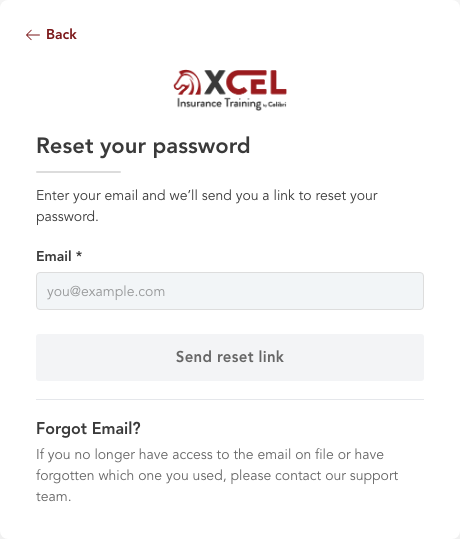
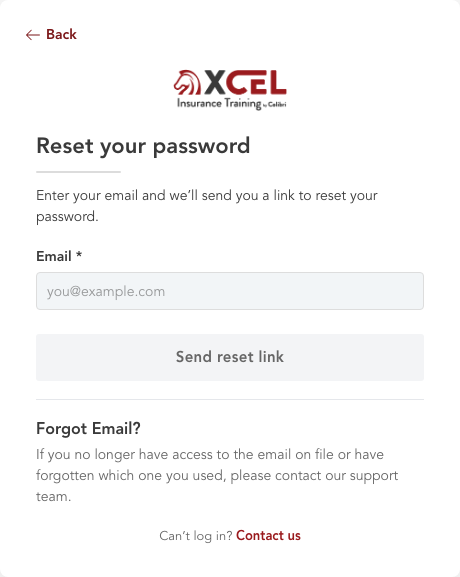
feat(invite-v3): Log In's Atlas cards — welcome line, locked email, Contact us
- Keycloak's Log in on the Log In flow matches the checkout's Log in to
  continue: "Welcome back, Jordan! Enter your password." under the title,
  and the address locked in its field. ← Back stays.
- "Can't log in?" leaves Log in for the foot of Reset your password, as
  "Contact us" — xcelsolutions.com/contact-us, in a new tab. The checkout's
  modal keeps "Visit our help center".
- Reset your password — Log In recaptured.

diff --git a/src/components/e2e/VerifyEmailModalV3.tsx b/src/components/e2e/VerifyEmailModalV3.tsx
@@ -700,6 +700,24 @@ function LoginStep({
             </button>
           )}
         </div>
+        {/* The Log In flow's way out, at the foot of Reset your password —
+            moved from its Log in and renamed (2026-11-23, Afsana: "Can't log
+            in? Contact us", to XCEL's contact page in a new tab). */}
+        {onBack ? (
+          <p style={{ ...NOTE, textAlign: 'center' }}>
+            Can’t log in?{' '}
+            <a
+              href={XCEL_CONTACT_US}
+              target="_blank"
+              rel="noopener noreferrer"
+              className="cre-e2e-textlink"
+              style={{ ...TEXT_LINK, color: 'var(--color-xcel-brick)', textDecoration: 'none' }}
+            >
+              Contact us
+              <span style={VISUALLY_HIDDEN}> (opens in a new tab)</span>
+            </a>
+          </p>
+        ) : null}
         {/* The demo fill — the same invisible, labelled corner as the email
             step's. */}
         <button
@@ -888,13 +906,17 @@ function LoginStep({
         </button>
       </div>
       {/* The way out for a learner who cannot get in at all (2026-11-13,
-          Afsana). Drawn only — the help center's address is not settled. */}
-      <p style={{ ...NOTE, textAlign: 'center' }}>
-        Can’t log in?{' '}
-        <button type="button" className="cre-e2e-textlink" style={{ ...TEXT_LINK, color: 'var(--color-xcel-brick)' }}>
-          Visit our help center
-        </button>
-      </p>
+          Afsana). Drawn only — the help center's address is not settled. On
+          the Log In flow it moved to Reset your password as Contact us
+          (2026-11-23, Afsana). */}
+      {onBack ? null : (
+        <p style={{ ...NOTE, textAlign: 'center' }}>
+          Can’t log in?{' '}
+          <button type="button" className="cre-e2e-textlink" style={{ ...TEXT_LINK, color: 'var(--color-xcel-brick)' }}>
+            Visit our help center
+          </button>
+        </p>
+      )}
     </form>
   )
 }
@@ -903,8 +925,9 @@ function LoginStep({
  *  flow's Atlas arm. Swati (2026-11-18): it "needs to match the keycloak
  *  widget", so it IS the checkout modal's Log in step — the same form, eye,
  *  wrong password and Forgot password? — on a card of its own, then the
- *  modal's "Signing you in". The address is the one given on OCD's page,
- *  locked. No name in the lead: nobody has signed in yet to be greeted. */
+ *  modal's "Signing you in". Like the checkout's, it greets the learner by
+ *  name and shows the address given on OCD's page, locked; unlike it, ← Back
+ *  in the corner (2026-11-23, Afsana). */
 export function KeycloakLogInCardV3({
   email,
   onSignedIn,
@@ -929,14 +952,14 @@ export function KeycloakLogInCardV3({
       {signingIn ? (
         <V3CardSigningIn />
       ) : (
-        /* No lead and no email field — the email step is the page before,
-           and ← Back returns to it to change the address (2026-11-20,
-           Afsana). */
+        /* The checkout's Log in to continue, as Afsana asked on 2026-11-23: a
+           welcome line and the address locked in its field — with ← Back
+           kept, to change it on the email step. (2026-11-20 to 11-23 it had
+           neither.) */
         <LoginStep
           email={email}
           title="Log in"
-          lead={null}
-          showEmail={false}
+          lead={`Welcome back, ${E2E_LEARNER_FIRST}! Enter your password.`}
           onBack={onBack}
           onLoggedIn={() => setSigningIn(true)}
         />
@@ -1101,6 +1124,18 @@ function ResetPasswordStep({ email, onReset }: { email: string; onReset: () => v
 
 /* A valid new password for the demo fill — every rule met. */
 const RESET_DEMO_PASSWORD = 'Navarro#2027'
+
+/** XCEL's contact page — the Log In flow's "Can't log in? Contact us". */
+const XCEL_CONTACT_US = 'https://www.xcelsolutions.com/contact-us'
+
+const VISUALLY_HIDDEN: CSSProperties = {
+  position: 'absolute',
+  width: 1,
+  height: 1,
+  overflow: 'hidden',
+  clip: 'rect(0 0 0 0)',
+  whiteSpace: 'nowrap',
+}
 
 /* ── Styles — the file's ────────────────────────────────────────────────── */
 

diff --git a/src/test/LogInFlowV3.test.tsx b/src/test/LogInFlowV3.test.tsx
@@ -132,7 +132,7 @@ describe('Invite Flow V3 — Log In', () => {
     expect(screen.queryByText('Enter your email')).not.toBeInTheDocument()
   })
 
-  it('in Keycloak: Keycloak’s log-in with no lead or email field, then Signing you in', async () => {
+  it('in Keycloak: Keycloak’s log-in greets them and locks the address, then Signing you in', async () => {
     const user = userEvent.setup()
     renderAt('/end-to-end-demo/cart', 'atlas')
     await toOcdPage(user)
@@ -140,8 +140,11 @@ describe('Invite Flow V3 — Log In', () => {
     await user.click(screen.getByRole('button', { name: 'Continue' }))
     expect(where()).toBe(LOG_IN_PATHS.keycloak)
     expect(screen.getByRole('heading', { name: 'Log in' })).toBeInTheDocument()
-    expect(screen.queryByLabelText(/^Email/)).not.toBeInTheDocument()
-    expect(screen.queryByText(/Enter your password to/)).not.toBeInTheDocument()
+    expect(screen.getByText('Welcome back, Jordan! Enter your password.')).toBeInTheDocument()
+    expect(screen.getByLabelText(/^Email/)).toHaveValue('learner@example.com')
+    expect(screen.getByLabelText(/^Email/)).toBeDisabled()
+    expect(screen.getByRole('button', { name: 'Back' })).toBeInTheDocument()
+    expect(screen.queryByText(/Can’t log in\?/)).not.toBeInTheDocument()
     await user.type(screen.getByLabelText(/^Password/), 'Secret#2027')
     await user.click(screen.getByRole('button', { name: 'Log in' }))
     expect(screen.getByLabelText('Signing you in')).toBeInTheDocument()
@@ -156,6 +159,11 @@ describe('Invite Flow V3 — Log In', () => {
     await user.click(screen.getByRole('button', { name: 'Forgot password?' }))
     expect(screen.getByRole('heading', { name: 'Reset your password' })).toBeInTheDocument()
     expect(screen.queryByRole('button', { name: 'Back to sign in' })).not.toBeInTheDocument()
+    /* Can't log in? moved here from Log in, as Contact us (2026-11-23). */
+    const contact = screen.getByRole('link', { name: /Contact us/ })
+    expect(contact).toHaveAttribute('href', 'https://www.xcelsolutions.com/contact-us')
+    expect(contact).toHaveAttribute('target', '_blank')
+    expect(contact).toHaveAttribute('rel', 'noopener noreferrer')
     await user.click(screen.getByRole('button', { name: 'Back' }))
     expect(screen.getByRole('heading', { name: 'Log in' })).toBeInTheDocument()
     expect(where()).toBe(LOG_IN_PATHS.keycloak)
